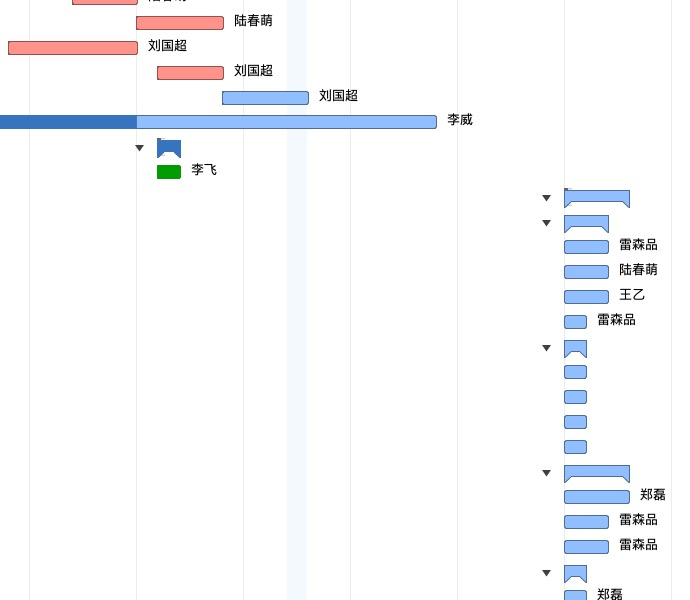
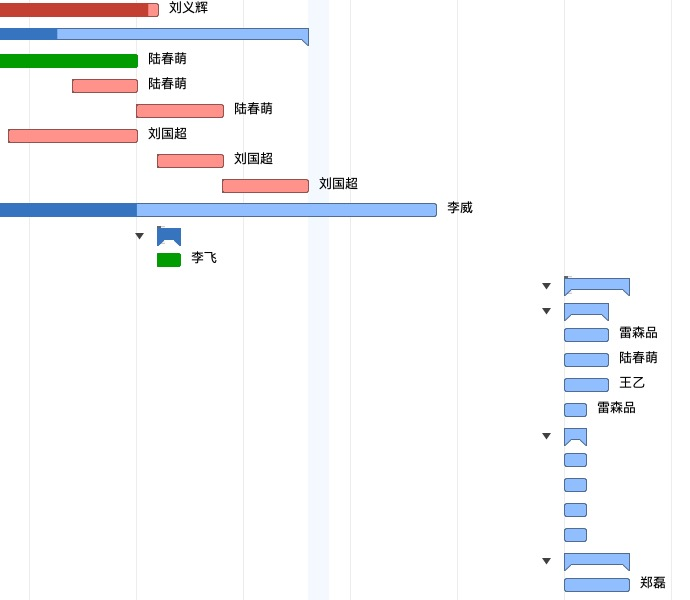
upgrade

Changed region(s): [[0.0, 0.0, 0.7, 0.45], [0.7913, 0.3, 0.9739, 1.0]]

diff --git a/FSCv1907/task.html b/FSCv1907/task.html
@@ -64,9 +64,9 @@
 <tr class="taskTypeGroup">
 <td style="padding-left: 18px;" class="wrap">1) 纳恩博</td>
 <td>2019/4/28 上午9:00</td>
-<td>2019/5/14 下午7:00</td>
-<td>2 周 1 天</td>
-<td>81%</td>
+<td>2019/5/24 下午7:00</td>
+<td>3 周 4 天</td>
+<td>71%</td>
 <td></td>
 <td class="total"></td>
 <td></td>
@@ -74,7 +74,7 @@
 <td>0 小时</td>
 <td>2019/4/28 上午9:00</td>
 <td>2019/5/14 下午7:00</td>
-<td>0 小时</td>
+<td>1 周 3 天</td>
 <td></td>
             </tr>
 <tr class="taskTypeGroup">
@@ -576,9 +576,9 @@
 <tr class="taskTypeGroup">
 <td style="padding-left: 28px;" class="wrap">1.3) 零散需求</td>
 <td>2019/4/30 上午9:00</td>
-<td>2019/5/10 下午7:00</td>
-<td>1 周 2 天</td>
-<td>100%</td>
+<td>2019/5/24 下午7:00</td>
+<td>3 周 2 天</td>
+<td>43%</td>
 <td></td>
 <td class="total"></td>
 <td></td>
@@ -617,6 +617,38 @@
 <td></td>
 <td></td>
 <td>2019/4/30 上午9:00</td>
+<td></td>
+<td></td>
+<td></td>
+            </tr>
+<tr class="taskTypeTask">
+<td style="padding-left: 38px;" class="wrap">1.3.3) 把派工单上定死的省市区必填放开 （只给这个租户处理）</td>
+<td>2019/5/23 上午9:00</td>
+<td>2019/5/24 下午7:00</td>
+<td>2 天</td>
+<td>0%</td>
+<td></td>
+<td class="total"></td>
+<td>雷森品</td>
+<td></td>
+<td></td>
+<td>2019/5/23 上午9:00</td>
+<td></td>
+<td></td>
+<td></td>
+            </tr>
+<tr class="taskTypeTask">
+<td style="padding-left: 38px;" class="wrap">1.3.4) 派工单的系统字段可以在布局设计器的详情页布局中移除 （通用）</td>
+<td>2019/5/23 上午9:00</td>
+<td>2019/5/24 下午7:00</td>
+<td>2 天</td>
+<td>0%</td>
+<td></td>
+<td class="total"></td>
+<td>雷森品</td>
+<td></td>
+<td></td>
+<td>2019/5/23 上午9:00</td>
 <td></td>
 <td></td>
 <td></td>
@@ -1249,6 +1281,6 @@
         </div><!-- end table wrap -->
 	</div>
     </div><!-- end contentwrap -->
-	 <p class="exported">输出日期 2019/5/22</p>
+	 <p class="exported">输出日期 2019/5/23</p>
 </body>
 </html>

diff --git a/FSCv1907/gantt.html b/FSCv1907/gantt.html
@@ -30,29 +30,29 @@
 	<h1>FSCv1907：甘特图</h1>
 		<div class="tablewrap"><table border="0" cellspacing="0" cellpadding="0">
 <tr>
-	<td><img src="include/gantt0,0.jpg?nocacheTag=-1563745043" border=0/></td>
-	<td><img src="include/gantt1,0.jpg?nocacheTag=521128525" border=0/></td>
+	<td><img src="include/gantt0,0.jpg?nocacheTag=-1164193379" border=0/></td>
+	<td><img src="include/gantt1,0.jpg?nocacheTag=1768767367" border=0/></td>
 </tr>
 <tr>
-	<td><img src="include/gantt0,1.jpg?nocacheTag=1096169229" border=0/></td>
-	<td><img src="include/gantt1,1.jpg?nocacheTag=-314137376" border=0/></td>
+	<td><img src="include/gantt0,1.jpg?nocacheTag=-1060509294" border=0/></td>
+	<td><img src="include/gantt1,1.jpg?nocacheTag=-385904264" border=0/></td>
 </tr>
 <tr>
-	<td><img src="include/gantt0,2.jpg?nocacheTag=1722774319" border=0/></td>
-	<td><img src="include/gantt1,2.jpg?nocacheTag=1310856752" border=0/></td>
+	<td><img src="include/gantt0,2.jpg?nocacheTag=1880211829" border=0/></td>
+	<td><img src="include/gantt1,2.jpg?nocacheTag=-1368560070" border=0/></td>
 </tr>
 <tr>
-	<td><img src="include/gantt0,3.jpg?nocacheTag=1610153626" border=0/></td>
-	<td><img src="include/gantt1,3.jpg?nocacheTag=-1493920999" border=0/></td>
+	<td><img src="include/gantt0,3.jpg?nocacheTag=-1899454627" border=0/></td>
+	<td><img src="include/gantt1,3.jpg?nocacheTag=758763770" border=0/></td>
 </tr>
 <tr>
-	<td><img src="include/gantt0,4.jpg?nocacheTag=481418688" border=0/></td>
-	<td><img src="include/gantt1,4.jpg?nocacheTag=1719772753" border=0/></td>
+	<td><img src="include/gantt0,4.jpg?nocacheTag=293919346" border=0/></td>
+	<td><img src="include/gantt1,4.jpg?nocacheTag=535407370" border=0/></td>
 </tr>
 </table>
 </div>
 		</div>
 	</div><!-- end contentwrap -->
-	 <p class="exported">输出日期 2019/5/22</p>
+	 <p class="exported">输出日期 2019/5/23</p>
 
 </body>	

diff --git a/FSCv1907/resource.html b/FSCv1907/resource.html
@@ -393,8 +393,8 @@
 <td style="padding-left: 20px;">雷森品</td>
 <td>2019/4/28 上午9:00</td>
 <td>2019/6/11 下午7:00</td>
-<td>4 周</td>
-<td>60%</td>
+<td>4 周 4 天</td>
+<td>50%</td>
 <td></td>
             </tr>
 <tr>
@@ -467,6 +467,22 @@
 <td>2019/5/14 下午7:00</td>
 <td>1 天</td>
 <td>100%</td>
+<td></td>
+            </tr>
+<tr>
+<td style="padding-left: 28px;" class="wrap taskTypeTask">把派工单上定死的省市区必填放开 （只给这个租户处理）</td> 
+<td>2019/5/23 上午9:00</td>
+<td>2019/5/24 下午7:00</td>
+<td>2 天</td>
+<td>0%</td>
+<td></td>
+            </tr>
+<tr>
+<td style="padding-left: 28px;" class="wrap taskTypeTask">派工单的系统字段可以在布局设计器的详情页布局中移除 （通用）</td> 
+<td>2019/5/23 上午9:00</td>
+<td>2019/5/24 下午7:00</td>
+<td>2 天</td>
+<td>0%</td>
 <td></td>
             </tr>
 <tr>
@@ -578,6 +594,6 @@
         </div>
     </div><!-- end contentwrap -->
 
-<p class="exported">输出日期 2019/5/22</p>
+<p class="exported">输出日期 2019/5/23</p>
 </body>
 </html>

diff --git a/FSCv1907/index.html b/FSCv1907/index.html
@@ -32,8 +32,8 @@
 			<p class="number"><span class="data-missing">无</span></p>
 		</div>
 		<div id="completed" class="box">
-			<h2><span class="number">51%</span>已完成</h2>
-			<div id="bar"><div id="fill" style="width:51%;"></div></div>
+			<h2><span class="number">49%</span>已完成</h2>
+			<div id="bar"><div id="fill" style="width:49%;"></div></div>
 			<p><span class="label">开始：</span>2019/4/28 上午9:00</p>
 			<p><span class="label">结束日期：</span>2019/6/12 下午7:00</p>
 			<p><span class="label">差异：</span>1 周 4 天</p>
@@ -154,8 +154,8 @@
 <td style="padding-left: 20px;">雷森品</td>
 <td>2019/4/28 上午9:00</td>
 <td>2019/6/11 下午7:00</td>
-<td>4 周</td>
-<td>60%</td>
+<td>4 周 4 天</td>
+<td>50%</td>
 <td></td>
             </tr>
 <tr class="resource Staff">
@@ -228,6 +228,6 @@
        
             </div><!-- end content-->
 	</div><!-- end contentwrap -->
-	 <p class="exported">输出日期 2019/5/22</p>
+	 <p class="exported">输出日期 2019/5/23</p>
 
 </body>	

diff --git a/FSCv1907/eva.html b/FSCv1907/eva.html
@@ -623,6 +623,38 @@
 		<td></td>
 	</tr>
 	<tr>
+		<td style="padding-left: 38px;" class="wrap">1.3.3) 把派工单上定死的省市区必填放开 （只给这个租户处理）</td>
+		<td></td>
+		<td></td>
+		<td></td>
+		<td></td>
+		<td></td>
+		<td></td>
+		<td></td>
+		<td></td>
+		<td></td>
+		<td></td>
+		<td></td>
+		<td></td>
+		<td></td>
+	</tr>
+	<tr>
+		<td style="padding-left: 38px;" class="wrap">1.3.4) 派工单的系统字段可以在布局设计器的详情页布局中移除 （通用）</td>
+		<td></td>
+		<td></td>
+		<td></td>
+		<td></td>
+		<td></td>
+		<td></td>
+		<td></td>
+		<td></td>
+		<td></td>
+		<td></td>
+		<td></td>
+		<td></td>
+		<td></td>
+	</tr>
+	<tr>
 		<td style="padding-left: 18px;" class="wrap">2) 沈鼓</td>
 		<td></td>
 		<td></td>
@@ -1250,6 +1282,6 @@
         </div><!-- end table wrap -->
 	</div>
     </div><!-- end contentwrap -->
-	 <p class="exported">输出日期 2019/5/22</p>
+	 <p class="exported">输出日期 2019/5/23</p>
 </body>
 </html>

diff --git a/FSCv1907/montecarlo.html b/FSCv1907/montecarlo.html
@@ -160,6 +160,6 @@
           </div>
 </div>
 	</div><!-- end contentwrap -->
-	 <p class="exported">输出日期 2019/5/22</p>
+	 <p class="exported">输出日期 2019/5/23</p>
 
 </body>	

diff --git a/FSCv1907/timeline.html b/FSCv1907/timeline.html
@@ -37,6 +37,6 @@
 </div>
 		</div>
 	</div><!-- end contentwrap -->
-	 <p class="exported">输出日期 2019/5/22</p>
+	 <p class="exported">输出日期 2019/5/23</p>
 
 </body>	
